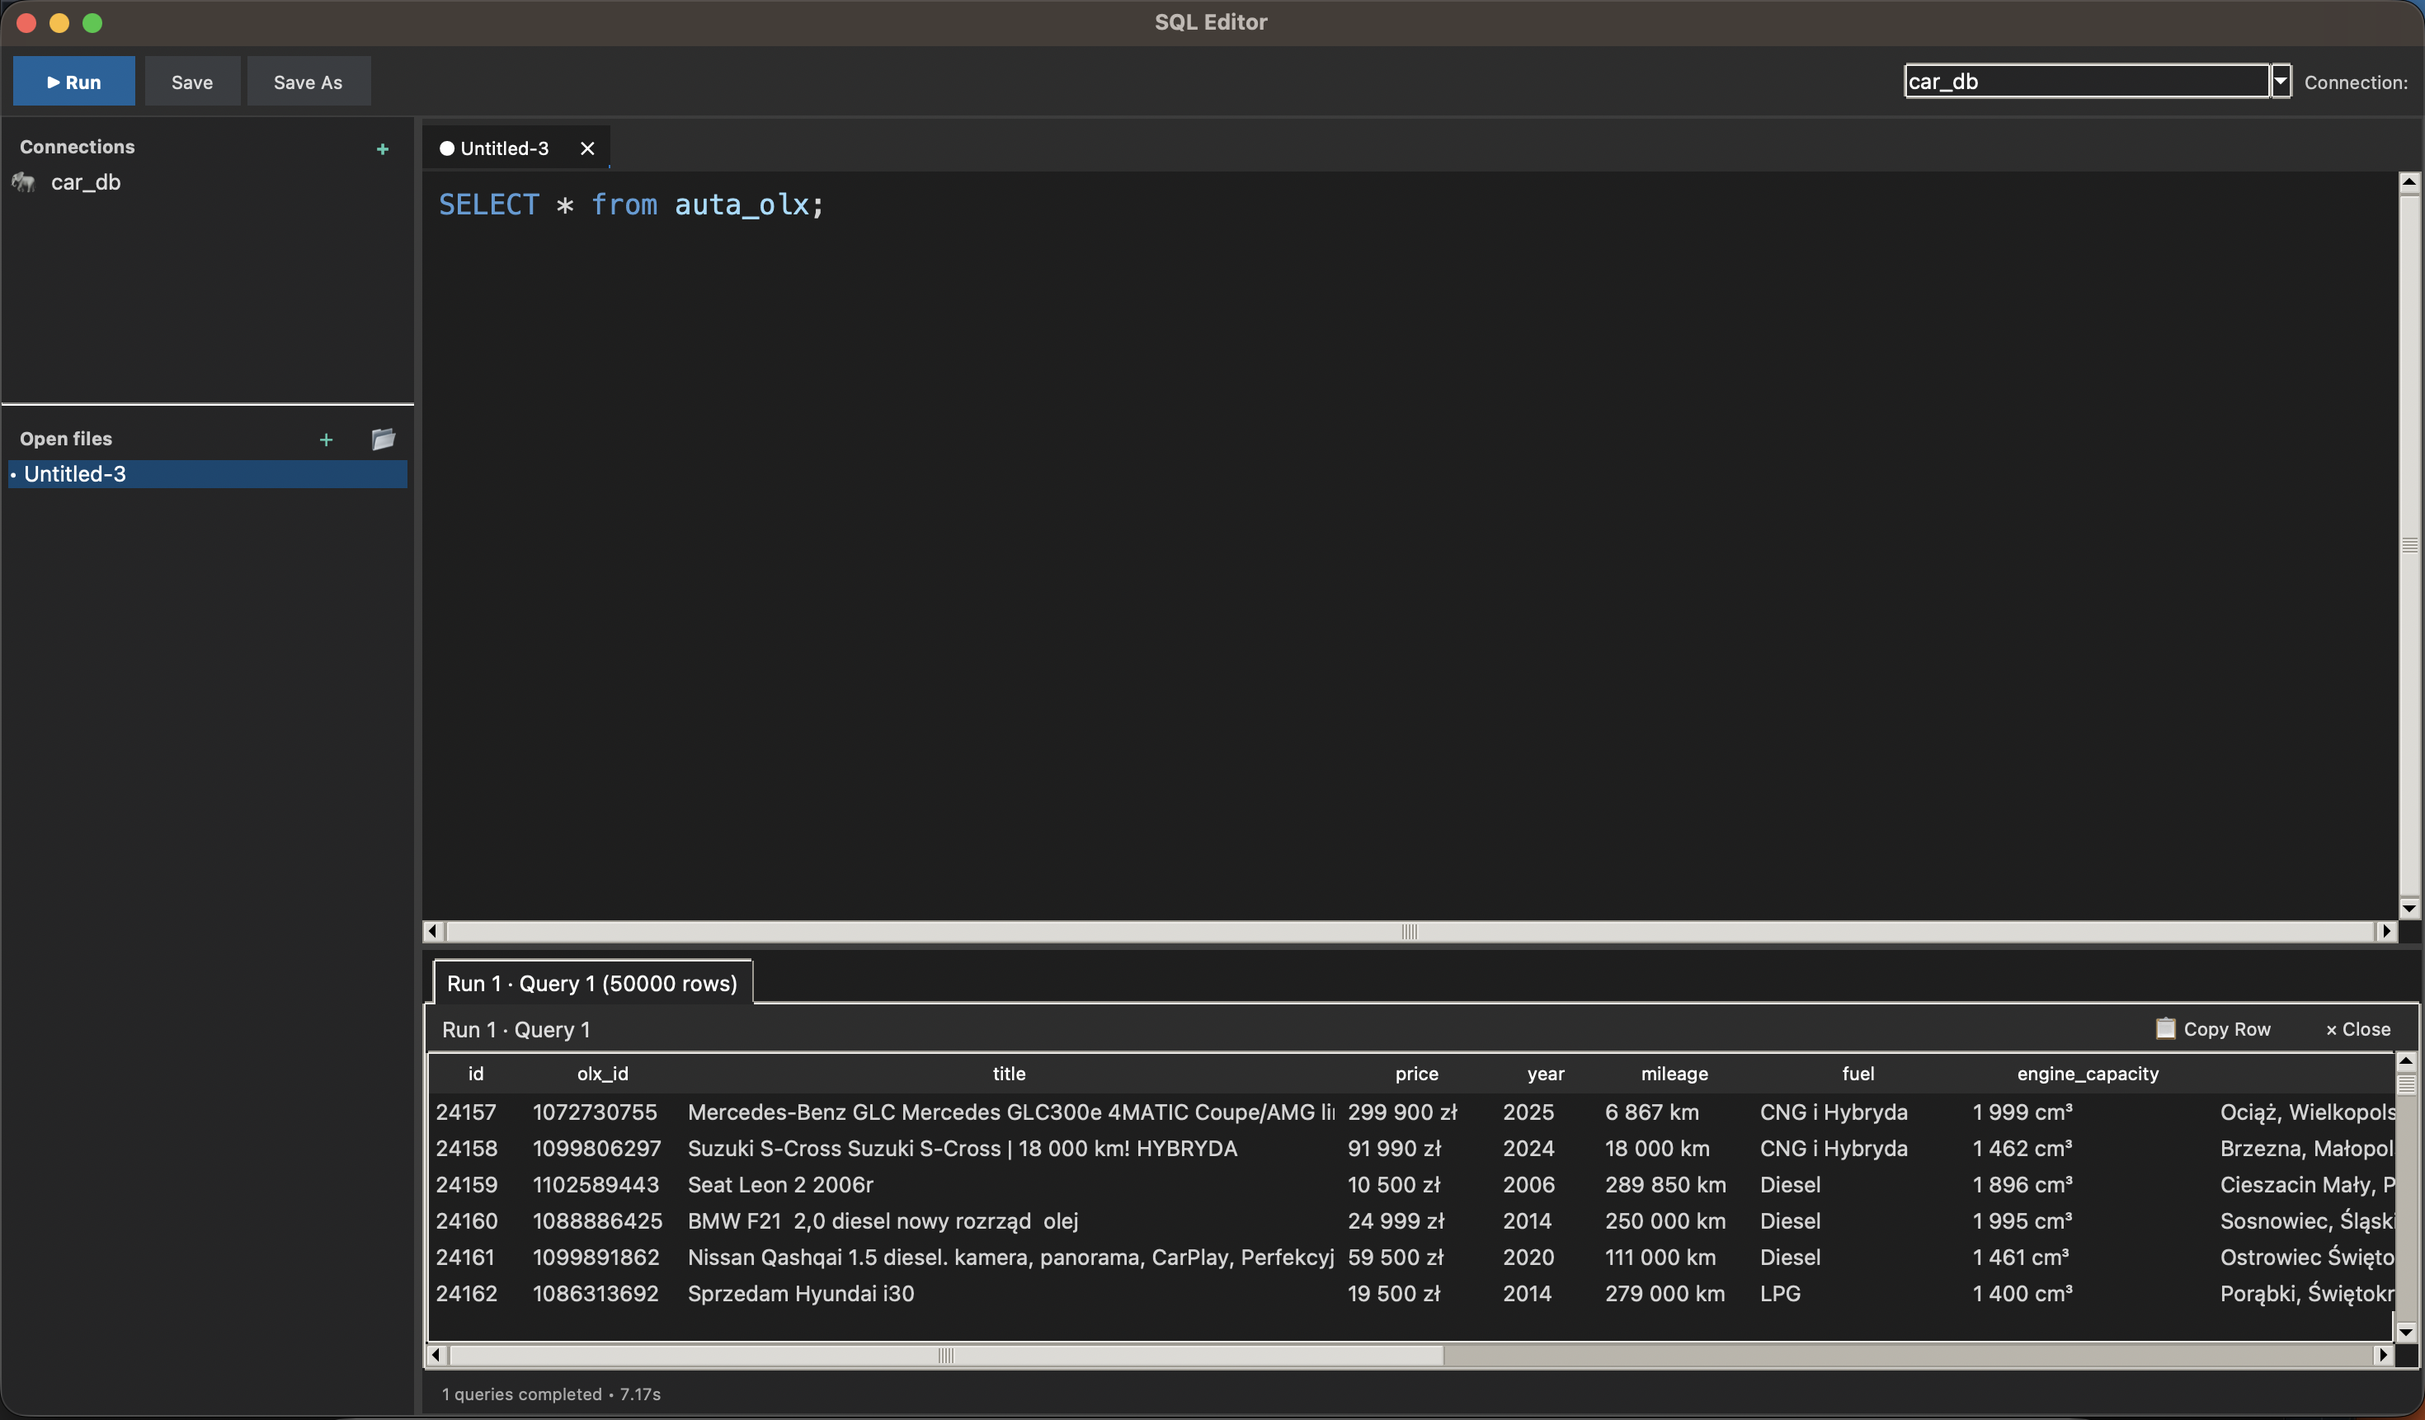
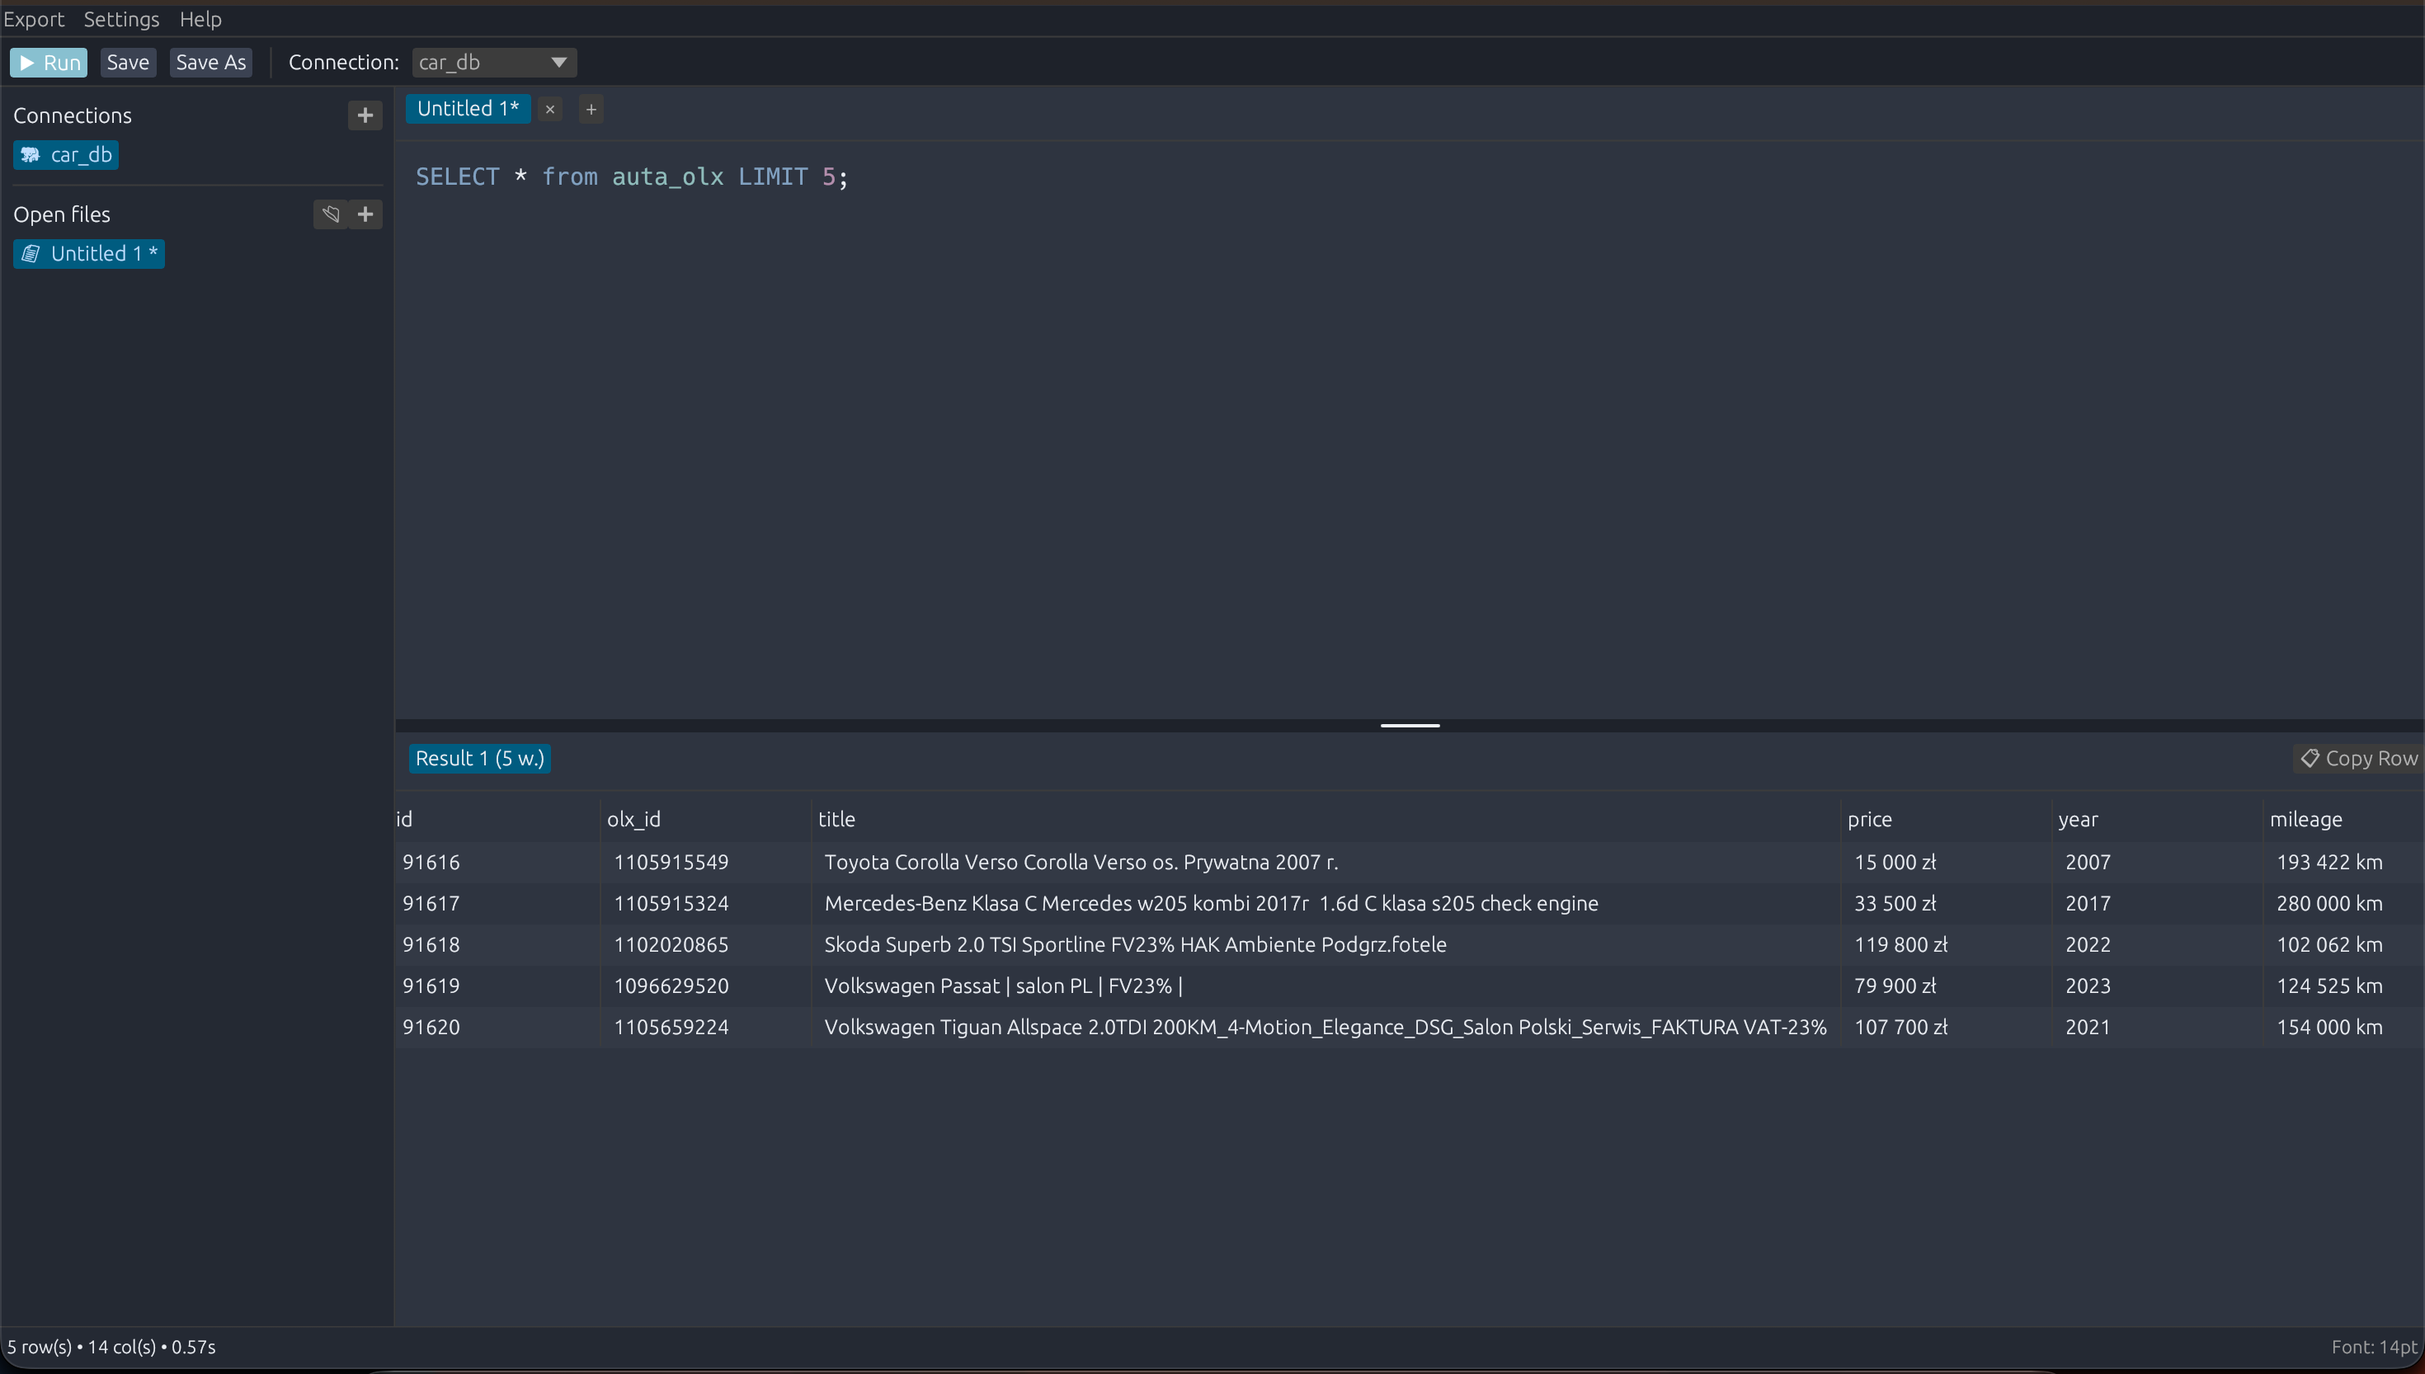
change: readme.md

diff --git a/README.md b/README.md
@@ -1,94 +1,134 @@
-# SQL Editor (Rust Edition)
+# SQL Editor
 
-Szybki, ultra-lekki, w pełni natywny i wieloplatformowy edytor SQL oraz klient baz danych przepisany w całości na język **Rust** z wykorzystaniem biblioteki GUI **egui / eframe**.
+A fast, ultra-lightweight, native, and cross-platform SQL editor built with **Rust** and **egui / eframe**. 
+Designed for maximum performance and usability, it allows you to run queries, manage multiple SQL files, and export results seamlessly.
 
 ![SQL Editor](assets/app.png)
 
+## Features
+
+- **Cross-platform**: Native support for Windows, macOS (Apple Silicon & Intel), and Linux.
+- **Database Support**: SQLite (built-in native engine via `rusqlite`), PostgreSQL (native `postgres`), MySQL / MariaDB (native `mysql`), Oracle Database, Microsoft SQL Server (MS SQL), and Google BigQuery.
+- **Syntax Highlighting**: Fast, regex-based SQL syntax tokenizer that can be toggled in Settings and automatically handles large files.
+- **Resizable Splitter**: Smooth draggable vertical splitter bar between the editor and results, allowing you to easily stretch and resize the editor up and down.
+- **SQL Autocomplete**: Context-aware autocompletion for SQL keywords, functions, tables, and columns from the active database connection. Supports dot notation (`table.column` or `alias.column`), clause context detection (`FROM`, `JOIN`, `SELECT`, `WHERE`), navigation with `↑`/`↓`, and insertion with `Enter` or `Tab` while keeping editor focus.
+- **Multi-tab Editing**: Open and manage multiple SQL files simultaneously with unsaved modification indicators (`*`).
+- **Persistent Connections**: Securely stores your database connections with encrypted passwords (100% backward-compatible with existing configuration files).
+- **Large Data Handling**: High-performance virtual scrolling results table capable of smoothly rendering and scrolling up to 50,000+ rows at 60+ FPS without UI freezes.
+- **Multi-query Results**: Run semicolon-separated statements and inspect each result in its own dedicated result tab (e.g., `Zapytanie 1 (10 w.)`, `Zapytanie 2 (5 w.)`).
+- **Result Export**: Export query results as CSV, JSON, XLSX (Excel), or Markdown from the Export menu.
+- **Result Row & Cell Copying**: Easily copy data from the results table. Click on any row and press `📋 Kopiuj wiersz`, double-click any cell to copy its value immediately, or right-click to copy as Cell Value, TSV, CSV, or with Headers.
+- **Editor Zoom**: Resize the editor font dynamically using `Ctrl+Scroll` (or `Cmd+Scroll` on macOS) or adjust the font size slider with live preview in Preferences.
+- **Update Checker**: Automatic update notifications and on-demand check via `Pomoc -> Sprawdź aktualizacje…`. Transparently displays current installed version and latest GitHub release, changelog/release notes, and offers direct one-click download of the recommended installer for your OS (MSI for Windows, PKG for macOS, AppImage for Linux).
+- **Connection Test**: Test database connectivity from the connection dialog before saving.
+- **Clear NULL Values**: NULL values are highlighted distinctly in italics instead of appearing as empty cells.
+- **Themes & Customization**: Customize the look and feel in `Ustawienia -> Preferencje… -> 🎨 Motywy (Themes)`. Choose from 7 built-in presets (Dark Default, Dracula, One Dark Pro, Monokai, Nord, Solarized Dark, GitHub Light) or customize UI colors (editor background, sidebar panels, toolbar/headers, text color, accent button) with color pickers and live SQL preview. The editor background seamlessly matches the active theme across the entire surface.
+- **Multilingual Interface**: Full interface translation supporting Polish (Polski), English, German (Deutsch), and Spanish (Español) with instant live language switching in Settings.
+- **Preferences**: Toggle interface language, warnings for SELECT statements without LIMIT, SQL syntax highlighting, SQL autocomplete, editor font size, theme presets, and separate result tabs from the Settings menu.
+- **Keyboard Shortcuts**: 
+  - `Ctrl+Enter` / `Cmd+Enter` – Run current query or editor contents
+  - `F5` – Run current query or editor contents
+  - `Ctrl+S` / `Cmd+S` – Save file
+  - `Ctrl+Shift+S` / `Cmd+Shift+S` – Save as…
+  - `Ctrl+O` / `Cmd+O` – Open SQL file
+  - `Ctrl+T` / `Cmd+T` – New tab
+  - `Ctrl+W` / `Cmd+W` – Close active tab
+  - `Ctrl+E` / `Cmd+E` – Export results to CSV
+  - `Ctrl+Scroll` / `Cmd+Scroll` – Zoom editor font size in/out
+  - `Double-click` (on result cell) – Copy cell value to clipboard
+  - `Right-click` (on result cell/row) – Context menu to copy cell, row as TSV/CSV, or with headers
+  - `Right-click` (on connection) – Edit or delete connection
+  - `↑` / `↓` – Navigate autocomplete suggestions
+  - `Enter` / `Tab` – Insert selected autocomplete suggestion
+  - `Esc` – Close autocomplete popup
+
+## Installation
+
+### Run from source
+1. Clone the repository:
+   ```bash
+   git clone https://github.com/Mixo123/SQL-Editor.git
+   cd SQL-Editor
+   ```
+
+2. Run the application using Cargo:
+   ```bash
+   cargo run --release
+   ```
+
+3. Run the automated test suite:
+   ```bash
+   cargo test
+   ```
+
+## Pre-built Binaries
+
+Check the [Releases](https://github.com/Mixo123/SQL-Editor/releases) page for ready-to-use packages:
+- **Windows**:
+  - `sql-editor-installer.msi` – Standard Windows Installer that installs to `Program Files`, adds shortcuts to the **Desktop** and **Start Menu**, and includes official application icons.
+  - `sql-editor-windows-portable.zip` – Standalone portable version (no installation required).
+- **macOS**:
+  - `sql-editor-macos-installer.pkg` – **(Recommended)** Native macOS Package installer. Automatically installs to `/Applications` and removes Gatekeeper quarantine restrictions.
+  - `sql-editor-macos.dmg` – Drag & drop disk image (includes `Fix-macOS-Gatekeeper.command` helper).
+- **Linux**:
+  - `sql-editor-x86_64.AppImage` – Standalone portable executable.
+  - `.deb` – For Debian, Ubuntu, Linux Mint, etc. (includes desktop and icon integration).
+  - `.rpm` – For Fedora, RHEL, openSUSE.
+
 ---
 
-## ⚡ Główne funkcjonalności
+## Security, Antivirus & SmartScreen Notes (FAQ)
 
-- **Wieloplatformowość (Cross-platform)**: Natywne wsparcie dla systemów macOS (Apple Silicon & Intel), Windows oraz Linux.
-- **Wsparcie dla baz danych**:
-  - **SQLite** – wbudowane natywnie bez żadnych zewnętrznych zależności (`rusqlite` bundled).
-  - **PostgreSQL** – natywny klient Rust (`postgres`).
-  - **MySQL / MariaDB** – natywny klient Rust (`mysql`).
-  - **Oracle Database, Microsoft SQL Server, Google BigQuery** – pełna obsługa konfiguracji DSN, dialogu połączeń oraz zapytań.
-- **Kolorowanie składni SQL (Syntax Highlighting)**: Błyskawiczny lekki silnik tokenizacji regex, z możliwością włączania/wyłączania w preferencjach i automatycznym omijaniem olbrzymich plików powyżej 200 KB.
-- **Inteligentne podpowiadanie kodu (SQL Autocomplete)**:
-  - Kontekstowe podpowiedzi słów kluczowych SQL, funkcji wbudowanych, tabel oraz kolumn z aktywnego połączenia.
-  - Obsługa notacji z kropką: `tabela.kolumna` lub `alias.kolumna`.
-  - Wykrywanie kontekstu po klauzulach `FROM`, `JOIN`, `SELECT`, `WHERE` itd.
-  - Nawigacja za pomocą `↑` / `↓` oraz zatwierdzanie klawiszem `Enter` lub `Tab`.
-- **Wielozakładkowy edytor (Multi-tab Editing)**: Otwieranie, edycja i zapisywanie wielu plików SQL jednocześnie ze wskaźnikiem niezapisanych zmian (`*`).
-- **Bezpieczne przechowywanie połączeń (Encrypted Storage)**: Połączenia i hasła są szyfrowane kluczem AES/XOR 32-bajtowym i zapisywane w formacie w 100% zgodnym z wersją Pythonową w katalogu `~/.sql_editor/connections.json`.
-- **Obsługa dużych zbiorów danych (Virtual Scrolling)**: Wirtualne renderowanie tabeli wyników bez zamrażania interfejsu użytkownika, obsługujące nawet 50 000 wierszy płynnie przy 60+ FPS.
-- **Wyniki dla wielu zapytań (Multi-query Results)**: Wykonywanie wielu zapytań oddzielonych średnikami i przeglądanie każdego wyniku w osobnej karcie.
-- **Eksport wyników**: Eksport do formatów:
-  - **CSV**
-  - **JSON**
-  - **XLSX** (Excel)
-  - **Markdown**
-- **Kopiowanie komórek i wierszy**:
-  - Kliknięcie wiersza i przycisk `📋 Kopiuj wiersz`
-  - Podwójne kliknięcie w dowolną komórkę kopiuje jej wartość do schowka
-  - Menu kontekstowe pod prawym przyciskiem myszy: *Kopiuj wartość komórki*, *Kopiuj wiersz (TSV)*, *Kopiuj wiersz (CSV)*, *Kopiuj z nagłówkami*
-- **Wyraźne wartości NULL**: Wartości `NULL` są wyróżniane kursywą i dedykowanym kolorem zamiast pustych komórek.
-- **Motywy i personalizacja (7 motywów)**:
-  - 7 wbudowanych szablonów: **Dark (Default)**, **Dracula**, **One Dark Pro**, **Monokai**, **Nord**, **Solarized Dark**, **GitHub Light**.
-  - Dostosowywanie kolorów: tło edytora, panele boczne, nagłówki, kolor tekstu, akcent przycisków.
-  - Podgląd na żywo (Live preview) w oknie Ustawień.
-  - Płynne powiększanie czcionki suwakiem lub skrótem `Ctrl+Scroll` / `Cmd+Scroll`.
-- **Wielojęzyczny interfejs (i18n)**:
-  - **Polski (pl)**
-  - **English (en)**
-  - **Deutsch (de)**
-  - **Español (es)**
-- **Sprawdzanie aktualizacji**:
-  - Integracja z GitHub Releases API (`Mixo123/SQL-Editor`).
-  - Automatyczne powiadomienie o nowej wersji i okno dialogowe z changelogiem oraz przyciskami bezpośredniego pobierania instalatorów dedykowanych dla danego systemu operacyjnego (.dmg/.pkg na macOS, .msi na Windows, .AppImage na Linux).
-- **Ochrona przed zapytaniami bez limitu**: Ostrzeżenie przed wykonaniem zapytań `SELECT` bez klauzuli `LIMIT` (konfigurowalne w ustawieniach).
+### Why does macOS or Windows show a virus / threat warning?
+
+1. **macOS Gatekeeper & Apple Developer ID**:
+   Apple requires developers to pay an annual Apple Developer subscription ($99/year) and notarize binaries on Apple servers. Open-source software distributed without a paid Apple certificate triggers Apple's Gatekeeper warning (especially on **macOS 15 Sequoia / Sonoma**):
+   > *"SQL Editor can't be opened because Apple cannot check it for malicious software."* or *"SQL Editor will damage your computer."*
+
+   **All releases are 100% safe**, open source, and built transparently from source code in [GitHub Actions](https://github.com/Mixo123/SQL-Editor/actions).
+
+2. **Windows Defender SmartScreen**:
+   Windows blocks newly downloaded files from the internet if they lack an expensive commercial Extended Validation (EV) certificate. Because this is a compiled, standalone native Rust executable without external runtime wrappers, it is lightweight, fast, and free of generic heuristic false positives.
 
 ---
 
-## ⌨ Skróty klawiszowe
+### How to install and run on macOS:
 
-| Skrót | Działanie |
-|---|---|
-| `Ctrl+Enter` / `Cmd+Enter` | Uruchom zapytanie |
-| `F5` | Uruchom zapytanie |
-| `Ctrl+S` / `Cmd+S` | Zapisz plik |
-| `Ctrl+Shift+S` / `Cmd+Shift+S` | Zapisz jako… |
-| `Ctrl+O` / `Cmd+O` | Otwórz plik SQL |
-| `Ctrl+T` / `Cmd+T` | Nowa karta |
-| `Ctrl+W` / `Cmd+W` | Zamknij aktywną kartę |
-| `Ctrl+E` / `Cmd+E` | Eksportuj wyniki do CSV |
-| `Ctrl+Scroll` / `Cmd+Scroll` | Powiększ / pomniejsz rozmiar czcionki |
-| `Podwójny klik` (na komórce) | Kopiuj wartość komórki do schowka |
-| `Prawy klik` (na komórce/wierszu) | Menu kopiowania w różnych formatach (TSV, CSV, z nagłówkami) |
-| `Prawy klik` (na połączeniu) | Edytuj lub usuń połączenie |
+#### Method 1: Use the `.pkg` installer (Recommended, automatic)
+1. Download `sql-editor-macos-installer.pkg` from the [Releases](https://github.com/Mixo123/SQL-Editor/releases) page.
+2. Open the installer and follow the on-screen steps.
+3. The package automatically installs the app to `/Applications` and strips macOS quarantine flags. You can then open SQL Editor directly from Launchpad or Applications without Gatekeeper interruptions!
+
+#### Method 2: Allow in System Settings (macOS 15 Sequoia / Sonoma)
+On macOS 15 Sequoia, Apple removed the context-menu *Right-Click -> Open* bypass. Instead:
+1. Try to open `SQL Editor` (macOS will show a security prompt – click *Cancel* or *Done*).
+2. Open **Apple menu () -> System Settings**.
+3. Navigate to **Privacy & Security**.
+4. Scroll down to the **Security** section – you will see a message: *"SQL Editor was blocked from use because it is not from an identified developer"*.
+5. Click **Open Anyway** and confirm with your password or Touch ID.
+
+#### Method 3: Terminal Command (Instant unquarantine)
+Open **Terminal** and run:
+```bash
+xattr -cr "/Applications/SQL Editor.app"
+```
+Then launch SQL Editor normally.
 
 ---
 
-## 🚀 Uruchomienie i kompilacja
+### How to run on Windows:
+- When the blue **"Windows protected your PC"** (SmartScreen) popup appears:
+  1. Click **"More info"**.
+  2. Click **"Run anyway"**.
+- If the downloaded `.msi` or `.zip` file is blocked in File Explorer:
+  - Right-click the file -> **Properties** -> check **Unblock** at the bottom -> click **OK**.
+  - Or in PowerShell: `Unblock-File .\sql-editor-installer.msi`.
 
-### Wymagania
-- Rust 1.80+ (zalecany najnowszy stable) oraz `cargo`.
+---
 
-### Uruchomienie ze źródeł
+### How to run on Linux (.AppImage):
+After downloading, grant execution permissions:
 ```bash
-cd SqlEditor
-cargo run
+chmod +x sql-editor-x86_64.AppImage
+./sql-editor-x86_64.AppImage
 ```
-
-### Uruchomienie w trybie zoptymalizowanym (Release)
-```bash
-cd SqlEditor
-cargo run --release
-```
-
-### Uruchomienie testów
-```bash
-cargo test
-```
-Wszystkie testy jednostkowe i integracyjne weryfikujące szyfrowanie, analizę SQL, bazę SQLite, schematy, eksporty, szablony i tłumaczenia przechodzą w 100%.
